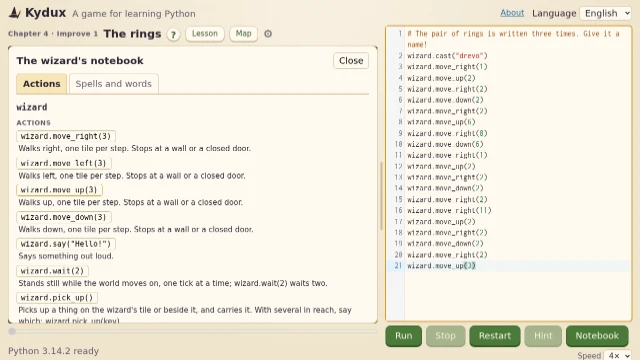
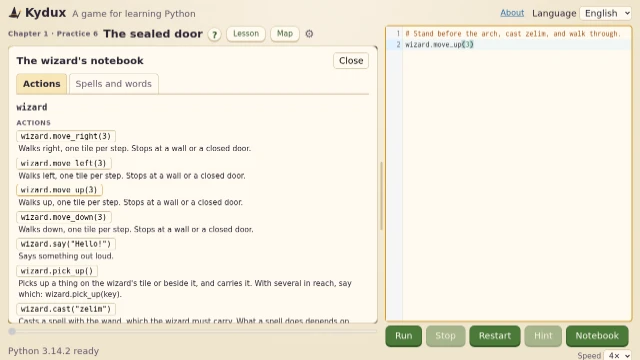
Take the notebook, spells, click and lesson tips in chapter 1
A child who waits for chapter 1's first scenes was shown drevo, def and a
loop over a list: the notebook's three pictures were taken in the rings,
and the lesson's in checking-each.

tips-pictures.spec.ts takes the notebook, its spells tab with zelim alone,
and a move clicked into the program in the-sealed-door, the level after
the first spell's lesson; and the lesson's picture on how-much's third
page, wizard.move_right(3) run with what the page says of the walk, since
the block prints nothing. The eight pictures, four tips in two languages,
are made again and looked at one by one: each 640 by 360 and between 12
and 29 KB. The other six tips stay as they were taken. No document names
the level a tip's picture is taken in but the spec's own comment.

diff --git a/app/e2e/tips-pictures.spec.ts b/app/e2e/tips-pictures.spec.ts
@@ -1,6 +1,9 @@
 // The tips' pictures (D221): each tip's thing in the game's own page, in each language,
 // cut to 16:9 round what it tells, made 640 by 360 and written as a webp of less than
-// 40 KB into content/tips/<lang>/<key>.webp. Run on demand, when the page changes:
+// 40 KB into content/tips/<lang>/<key>.webp. Each is taken where a child of chapter 1,
+// who waits for the first scenes, has been: the notebook, its spells and a click in
+// the-sealed-door, the level after the first spell's lesson; the lesson in how-much.
+// Run on demand, when the page changes:
 //
 //   KYDUX_TIP_PICTURES=1 npx playwright test e2e/tips-pictures.spec.ts
 //
@@ -91,7 +94,7 @@ for (const [lang, locale, wizard] of [
     test.beforeEach(({ page }) => seedWizard(page, wizard));
 
     test('the notebook: its actions, its spells, an action clicked into the program', async ({ page }) => {
-      await openLevel(page, 'the-rings');
+      await openLevel(page, 'the-sealed-door');
       await page.locator('#notebook-open').click();
       const notebook = page.locator('#notebook');
       await expect(notebook).toBeVisible();
@@ -154,11 +157,15 @@ for (const [lang, locale, wizard] of [
     });
 
     test('a lesson whose example is run on its page, and the map', async ({ page }) => {
-      await page.goto('/#lesson/checking-each');
+      // how-much's third page holds its block, a walk that prints nothing: the page
+      // says what the walk did.
+      await page.goto('/#lesson/how-much');
+      await page.locator('#lesson-next').click();
+      await page.locator('#lesson-next').click();
       const run = page.locator('.lesson-run-button').first();
       await run.click();
       const block = page.locator('.lesson-run').first();
-      await expect(block.locator('.lesson-printed')).toBeVisible({ timeout: 90_000 });
+      await expect(block.locator('.lesson-said')).toBeVisible({ timeout: 90_000 });
       await picture(page, lang, 'lesson', [block]);
       await page.goto('/#map');
       await expect(page.locator('.map-screen')).toBeVisible();
